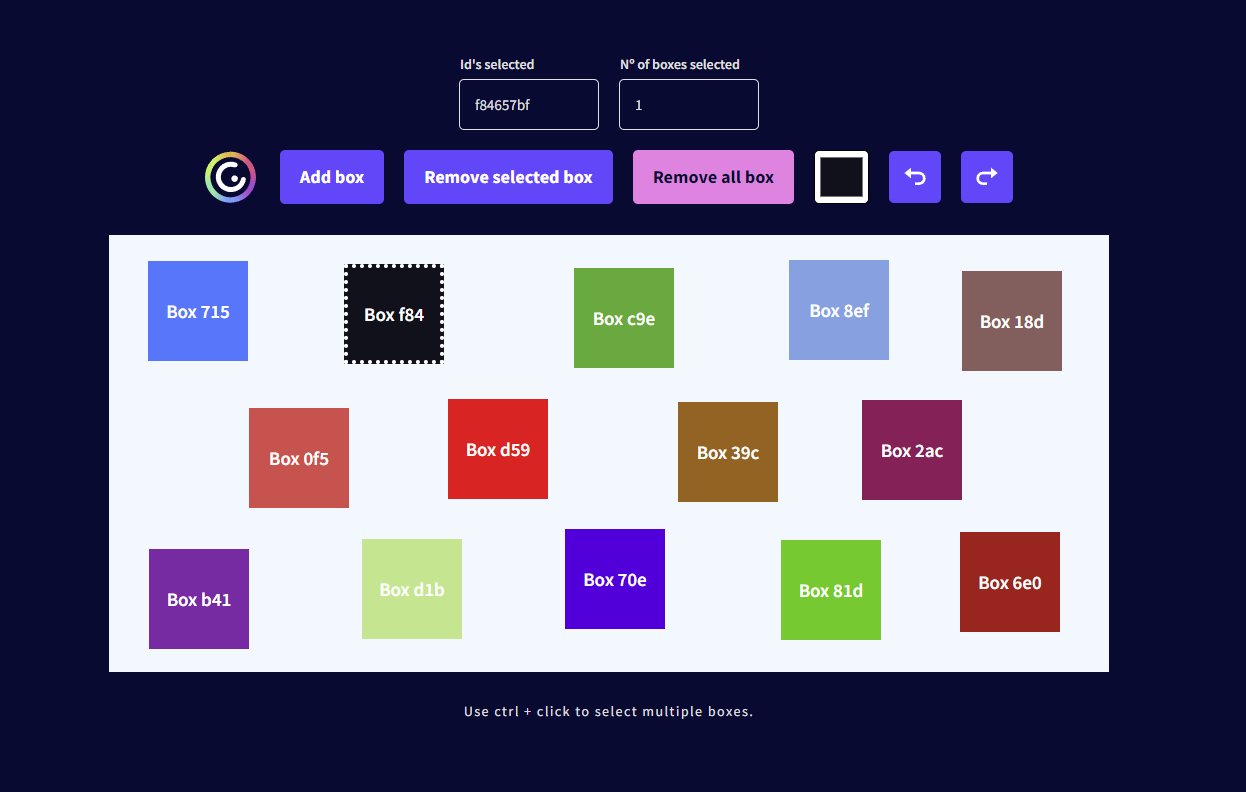
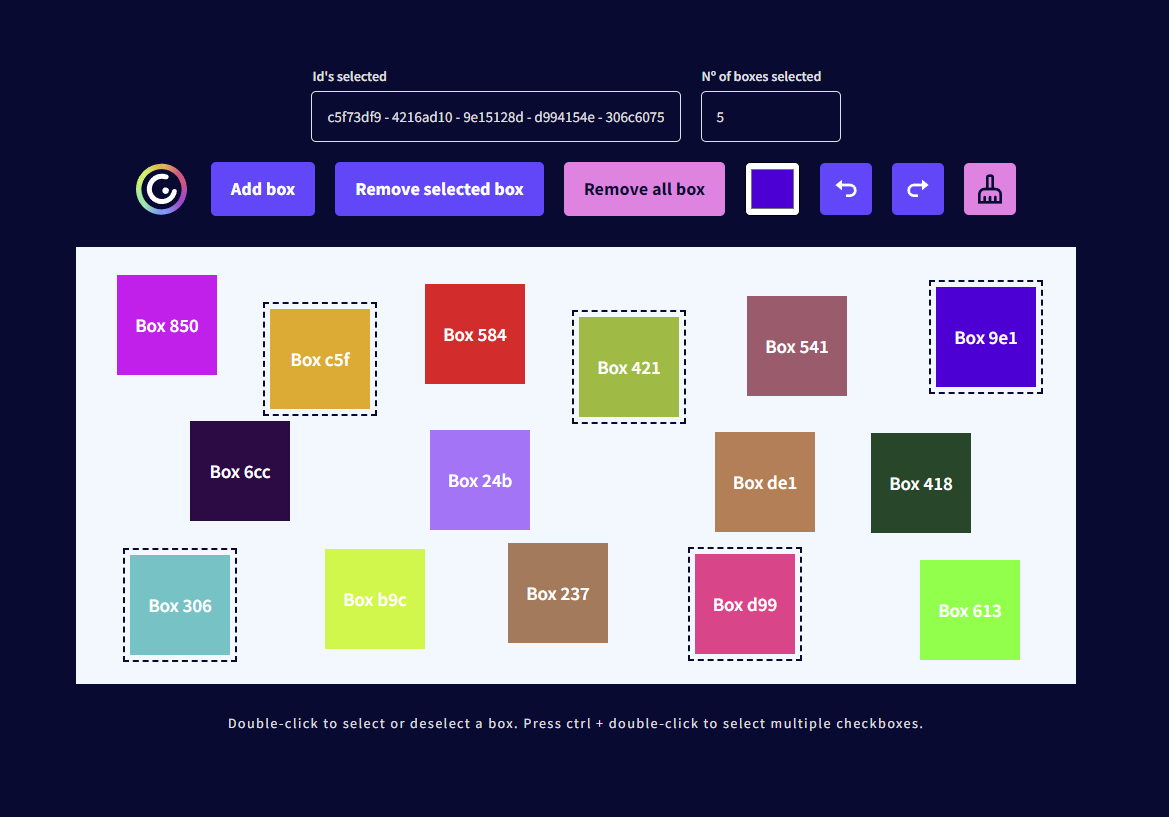
Updated readme and new screenshot of the Lightghouse report

diff --git a/README.md b/README.md
@@ -32,7 +32,7 @@ When finished, the app should let the user:
   - Keep** in mind you should be able to drag a box even if it's not selected when the dragging starts.
 - [X] Changing a box's color.
 - [X] Display a counter indicating how many boxes are selected.
-- [ ] Support selection, dragging and color changing for multiple boxes.
+- [X] Support selection, dragging and color changing for multiple boxes.
 - [X] Save the state of the app locally and restore it when it loads.
 - [X] Undo / Redo capabilities
   - **hint**: mobx-state-tree provides a middleware for this.
@@ -65,20 +65,18 @@ Good Luck!
 
 # Comments on the solution
 
-1) I started the process by forking the project and then cloning the repository to my local environment. Although these improvements were not set as requirements for the technical test, I decided to focus on improving the styles and improving the interface of the application before moving on to the functionalities.
+I started by forking the project and then cloning the repository to my local environment. I improved the styles and the interface of the application before moving on to the functionalities.
+I had no previous experience with these libraries, so I spent my time studying the guidelines in the documentation. At first I had some difficulties that I later overcame.
 
-2) I then proceeded to tackle the documentation. It is important to note that I had no previous experience with these libraries, so I dedicated myself to studying the guidelines of each one. Although I had some difficulties at first, I must admit that after going through the documentation again and running tests on it, I managed to get through without any major issues.
+Then on the second day I was already familiar with the libraries and was able to apply more features. I kept changing the styles as I progressed with the project and new features.
 
-3) Second day of the project and I was able to apply more functionalities since they share a relationship with each other in their syntax. I had some strange behavior in the boxes that I solved by changing the data it took from the positioning.
-
-4) 
+In general it was quite a challenge because I had not done a style project and I enjoyed it. I want to continue exploring these libraries to understand and consolidate the concepts.
 
 ## Screenshots of the solution
 
 Here I included a screenshot of the desktop version of the interface that was modified and improved from the base that was delivered in the technical test. The base of the styles was inspired by the design system of the components that Genially uses on its website.
 
 ![Interface Screenshot](/public/screenshot.png)
-
 
 ## Additional library used
 
@@ -87,6 +85,10 @@ I understand that it was not within the requirements, but I wanted to add the fo
 - React Icons (https://react-icons.github.io/react-icons/)
 - Prettier (https://prettier.io/) I used it to format the code for the whole project.
 
+## Google LightHouse Report
+
+![Google LightHouse Report](/public/lighthouse.png)
+
 ## Possible future features
 
 - Possibility to add other shapes.
@@ -94,3 +96,5 @@ I understand that it was not within the requirements, but I wanted to add the fo
 - Possibility to save a screenshot of the canvas in png or jpg format.
 - Magnets to align the boxes.
 - Tooltips to indicate the functionality of each button.
+- Responsive design for mobile devices.
+- Toast messages to indicate actions such as creating a box, deleting a box, etc.
